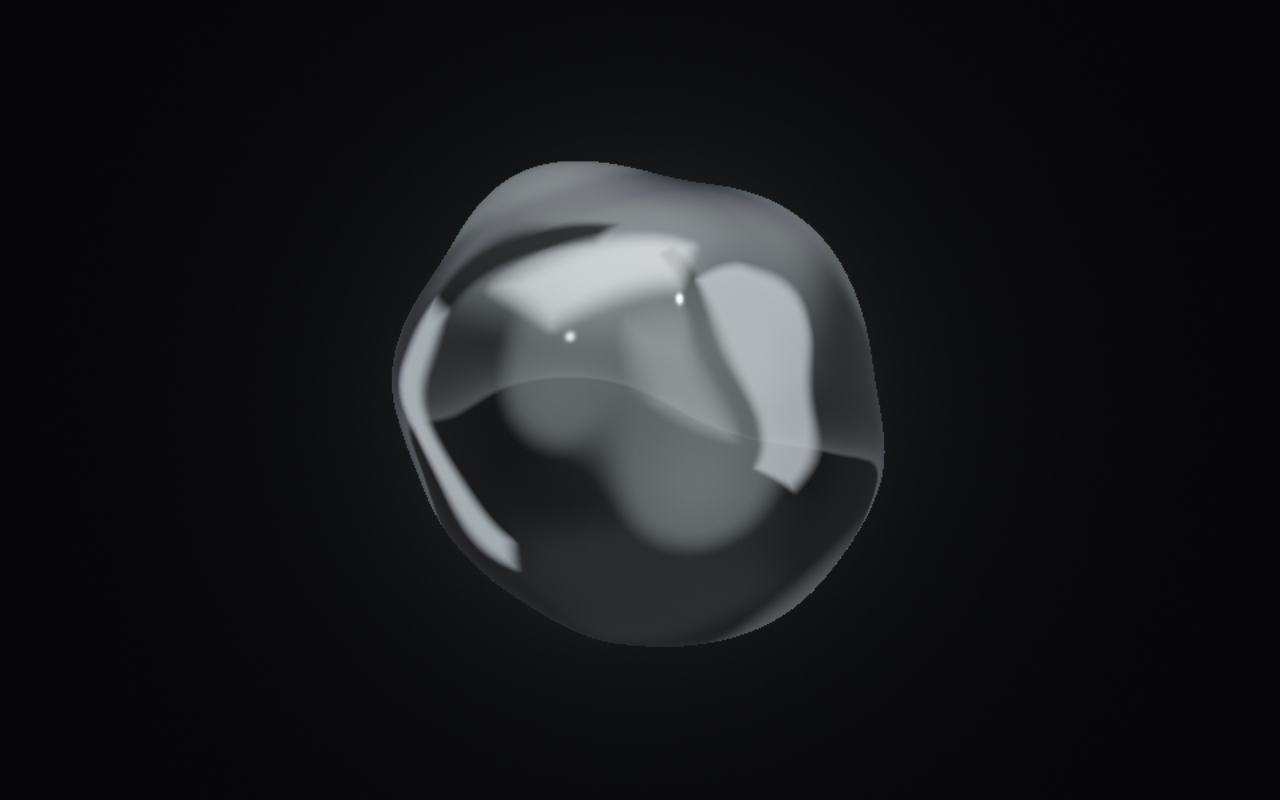
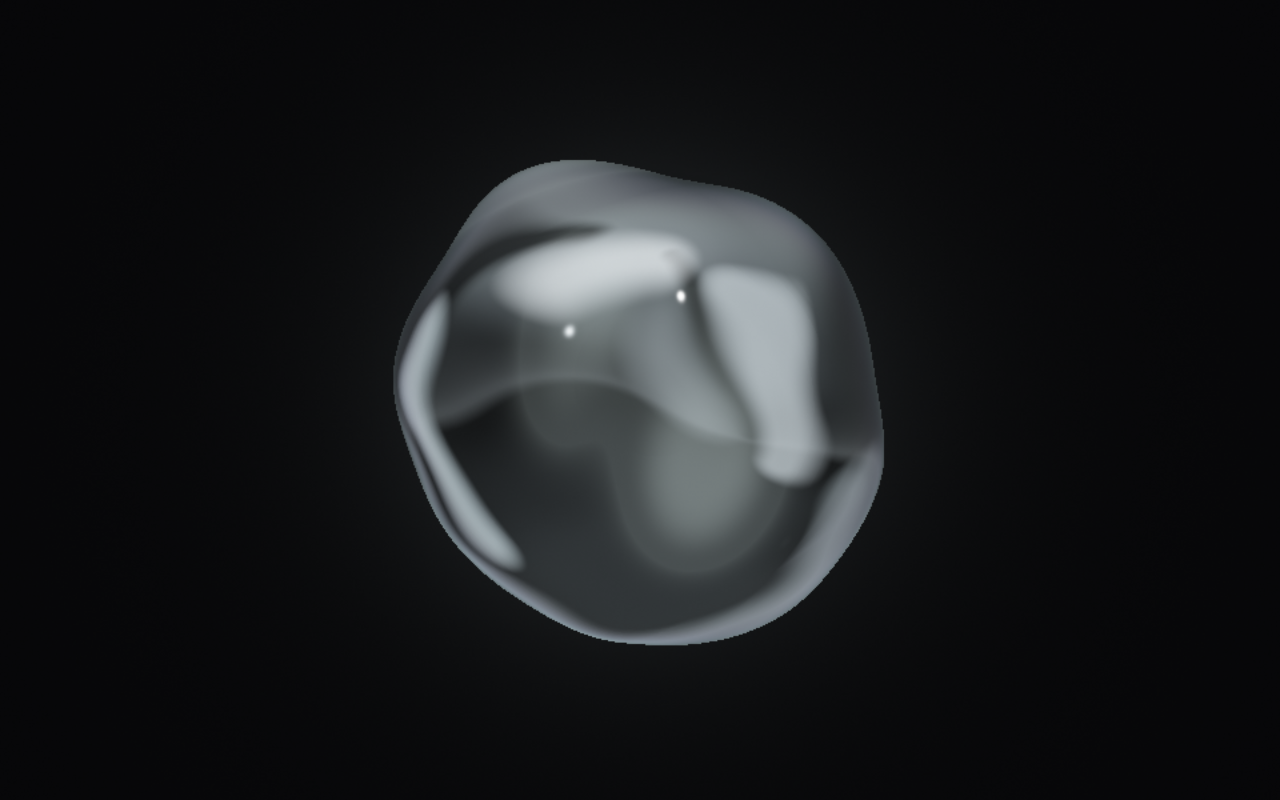
docs(web): review round 1 screenshots, motion sheets, look notes and report

diff --git a/docs/notes/look.md b/docs/notes/look.md
@@ -8,14 +8,23 @@ Screenshots: `docs/screenshots/<state>-1280x800.png` and `-1024x768.png` (real f
 
 The first version read as a glossy glass or soap bubble: a small simple studio, a fresnel mix with the background (so the centre was darker than the rim and the blob looked like a lens), and lava shapes too faint to see.
 
-## What changed and why
+## Review round 1 (coordinator notes)
+
+| Note | Change |
+| --- | --- |
+| Thinking lava was a flat circular disc, like a sticker | A slice through a lobe gave a disc with a flat fill. The lava samples now add up like light through a volume. Each sample has a soft halo outside the shape (exponential falloff) and gets brighter towards the core. Lobes are 1.4x taller than wide (rising wax) and of different sizes (0.45 to 0.81 of the lobe radius), and merge with a tighter blend. Thinking lava is a deeper hot orange, `[1.0, 0.3, 0.03]`, so it separates from the amber body. |
+| Hard, straight-edged reflection plates in idle and listening | Every light is now a fully rounded panel or pill, with edges two to three times softer. The flow smear along the surface is about twice as strong (`0.06 + 0.45 amp`), so reflections bend and stretch with the liquid. |
+| Empty dark lower third crossed by a hard horizon | The horizon blend is about four times wider. The floor reflects a pool of gel light that grows towards the bottom, and a low, wide gel light behind wraps coloured light round the lower rim. The lower half now reads as volume. |
+| Keep the translucent rim, the lava colour per state and the calm motion | Unchanged. |
+
+## What changed and why (first pass, updated by the review where noted)
 
 | Change | Why |
 | --- | --- |
 | **Studio environment (`env()`).** A broad gel-tinted sky that brightens towards the zenith, a horizon set below eye level, a near-black floor with a dim pool of gel light, two black cards that cut the sky into bands, a large soft overhead key, a wide strip on the right, a gel rim strip behind on the left, one off-centre diffusion panel behind the camera, and two tiny hard lights for glints. Values above 1 are lights (HDR). | Chrome reads through contrast: broad bright areas against true blacks, split by a sharp horizon. Thin lines, like the first try's horizon line and thin strips, read as glass edges instead. The front panel fills the centre, so the blob reads as a mirror and not as a see-through lens. It is a single panel: two panels plus a floor strip made a smiley face. |
 | **Gels.** Every light is tinted by the state colour. The key keeps about half of its white, so strong highlights go towards white. | Mercury under coloured gels. Each state keeps a clear colour identity, and highlights still read as metal. |
 | **Material.** Schlick fresnel with a high base reflectance (`F = 0.68 + 0.32 (1 - n·v)^5`), a 30 % coloured reflectance that fades to white on hot highlights, and a trace of thin-film colour at grazing angles only. The background no longer shows through. | A dark, slightly translucent liquid metal, not a glass ball. |
-| **Lava (`lavaDist()`, new `uLava` colour per state).** The same lobes that push the surface are shrunk and merged into a distance field. It is sampled just under the skin (bulges glow through) and deeper along the ray, with the lobes pulled towards the centre, so blobs float inside. The look is volumetric: a soft skin, brighter and slightly whiter with depth. The emission is compressed (`1 - exp(-x)`), so bright states never go flat white. Where the lava presses on the skin, the mirror thins a little. | This is the visible lava-lamp life: blobs rise, merge and split inside (see the contact sheets). The lava has its own colour, like the wax in a lamp. With the body colour alone, the idle lava was invisible, because blue is perceptually dark. |
+| **Lava (`lavaDist()`, `lavaHeat()`, new `uLava` colour per state).** The same lobes that push the surface are shrunk, stretched upwards and merged into a distance field. It is sampled just under the skin (bulges glow through) and deeper along the ray, with the lobes pulled towards the centre, so blobs float inside. The samples add up; each has a soft halo and a brighter, slightly whiter core. The emission is compressed (`1 - exp(-x)`), so bright states never go flat white. Where the lava presses on the skin, the mirror thins a little. | This is the visible lava-lamp life: blobs rise, merge and split inside (see the contact sheets). The lava has its own colour, like the wax in a lamp. With the body colour alone, the idle lava was invisible, because blue is perceptually dark. |
 | **Lobes (`uLobes[5]`, computed on the CPU in `tables.ts` `lobes()`).** Each lobe rises and sinks on its own slow cycle (faster up, lazier down) and circles the vertical axis. Golden-angle phases keep any two lobes out of step. They reach further than before, so they bulge the skin. | The surface becomes lumpy, liquid chrome metaballs. On the CPU it is about 25 % cheaper than per-pixel trig in SwiftShader, and a global array filled in `main()` was slower still. |
 | **Flow-warped reflection (`reflection()`).** The normal leans along the upward surface tangent by a slow streak pattern, plus fine travelling ripples, as an analytic bump that only bends the normal. | Subtle anisotropic stretching and drifting of the reflections as the liquid moves, and fine glints, for one env tap. Three blurred taps ghosted visibly (triple horizon), so I dropped them. |
 | **Surface ripples in the SDF.** Three crossed sines replace the slow value-noise octave. The level noise is evaluated only when the level is above 0, at a lower frequency. | Cheaper. The lower frequency makes speech swells wobble instead of crumpling like foil. |
@@ -42,14 +51,16 @@ This machine was shared with other sessions (load average 4 to 18), so sequentia
 
 | Variant | Idle, min / median | Listening (level 0.7), min / median | Ratio to before (min) |
 | --- | --- | --- | --- |
-| Before | 69.1 / 75.6 ms | 84.4 / 89.0 ms | 1.00 |
-| After, quality 2 | 101.0 / 108.9 ms | 122.5 / 127.7 ms | **1.46 idle, 1.45 listening** |
-| After, quality 1 | 90.2 / 96.6 ms | 105.8 / 111.1 ms | 1.31 / 1.25 |
-| After, quality 0 | 82.9 / 90.0 ms | 100.3 / 105.0 ms | 1.20 / 1.19 |
+| Before | 74.0 / 78.2 ms | 89.9 / 92.8 ms | 1.00 |
+| After, quality 2 | 105.9 / 113.3 ms | 125.0 / 134.4 ms | **1.43 idle, 1.39 listening** (medians 1.45, 1.45) |
+| After, quality 1 | 96.8 / 104.0 ms | 112.9 / 118.3 ms | 1.31 / 1.26 |
+| After, quality 0 | 89.8 / 94.2 ms | 101.4 / 108.2 ms | 1.21 / 1.13 |
+
+These figures are after the review round. Before the review I measured 1.46x and 1.45x. The review changes first cost 1.54x; dropping a brightness gradient inside each light and a `sqrt` brought it back under the target.
 
     cd web && node scripts/shader-bench.mjs base=<(git show 576a5b6:web/src/render/blob.frag) cur=src/render/blob.frag q1=src/render/blob.frag:1 q0=src/render/blob.frag:0
 
-The film-strip spec also prints a sequential figure per tier (`frame cost at 1280x800`). It is less reliable under load. The last run gave quality 2: idle 119.5 ms, listening 129.5 ms; quality 0: 98.9 and 105.7 ms.
+The film-strip spec also prints a sequential figure per tier (`frame cost at 1280x800`). It is less reliable under load. The last run gave quality 2: idle 115.7 ms, listening 128.3 ms; quality 0: 94.0 and 105.0 ms.
 
 Where the time goes (removal tests, idle): lobes about 20 ms for three of them, env about 10 ms, lava about 6 ms, surface ripple about 6 ms. The average march length did not change (about 8.4 steps per marched pixel, before and after). The extra cost is per step.
 
@@ -59,9 +70,9 @@ Where the time goes (removal tests, idle): lobes about 20 ms for three of them, 
 
 ## What still looks weak (honest)
 
-- **Glass versus metal.** It now reads as dark liquid metal with lava inside, but the translucent rim and the floating lava keep some glass-sphere feeling, especially in idle. Making it more opaque would lose the lava; I chose the lava.
-- **The horizon.** The floor/sky split crosses the blob slightly below the middle as a soft bright lip. That is right for chrome, but in amber (thinking) it can suggest a liquid level in a glass.
-- **Thinking lava** turns yellow rather than deep orange after tone mapping. Amber is still clearly amber.
+- **Glass versus metal.** It reads as dark liquid metal with lava inside, but the translucent rim and the floating lava keep some glass-sphere feeling, especially in idle. Making it more opaque would lose the lava; I chose the lava. The softer lights (review round) trade a little of the crisp chrome sparkle for a more liquid look.
+- **The horizon** is now soft, but it still crosses the blob slightly below the middle as a faint lip.
+- **Lava contrast in bright states.** In speaking and thinking, the lava shows as soft, darker-orange or warm shapes rather than as bright glowing wax, because the body is already bright. In thinking, the lava often shows as one large soft oval: it is shaded and soft-edged, but not very elongated in every frame.
 - **Idle motion is slow** by design (one lobe cycle takes about 30 s at idle speed). Six seconds of film strip shows drift and one merge or split, not a full lava cycle.
 - **Speaking** pulses with the level through the lava glow (up to +45 % at full level) and the swells; the mirror itself does not brighten, so the pulse is moderate.
 - The thin-film iridescence is barely visible: on purpose, but it adds little.

diff --git a/docs/coordination/reports/look.md b/docs/coordination/reports/look.md
@@ -4,6 +4,16 @@
 
 Best screenshot: `docs/screenshots/thinking-1280x800.png`. Best still for idle as a painting: `docs/screenshots/idle-1280x800.png`. Motion: `docs/screenshots/motion/*.png`.
 
+## Review round 1
+
+All three coordinator notes are addressed (details: `docs/notes/look.md`, "Review round 1"):
+
+- **Lava.** Soft, volumetric and elongated: samples add up, each with a halo and a brighter core; lobes are taller than wide and of different sizes. Thinking lava is a deeper orange.
+- **Reflections.** Every light is a rounded panel or pill with soft edges, and the flow smear is about twice as strong.
+- **Lower half.** A soft horizon, a floor bounce of gel light, and a low gel rim light behind.
+
+The translucent rim, the lava colour per state and the motion speed are unchanged.
+
 ## Checks (run in `web/`, all passed on the final commit)
 
 | Command | Result |
@@ -16,7 +26,7 @@ Best screenshot: `docs/screenshots/thinking-1280x800.png`. Best still for idle a
 
 ## Cost
 
-Measured with `web/scripts/shader-bench.mjs` (one page, alternating frames, SwiftShader at 960x600). Quality 2 costs **1.46x** the old shader at idle and **1.45x** with the level at 0.7, inside the 1.5x target. Quality 1 costs 1.31x and quality 0 costs 1.20x. The page drops one tier when its frame interval averages over 50 ms for 4 s.
+Measured with `web/scripts/shader-bench.mjs` (one page, alternating frames, SwiftShader at 960x600). Quality 2 costs **1.43x** the old shader at idle and **1.39x** with the level at 0.7 (medians 1.45x), inside the 1.5x target. Quality 1 costs 1.31x and quality 0 costs 1.21x. The page drops one tier when its frame interval averages over 50 ms for 4 s.
 
 ## Interface changes others should know
 
